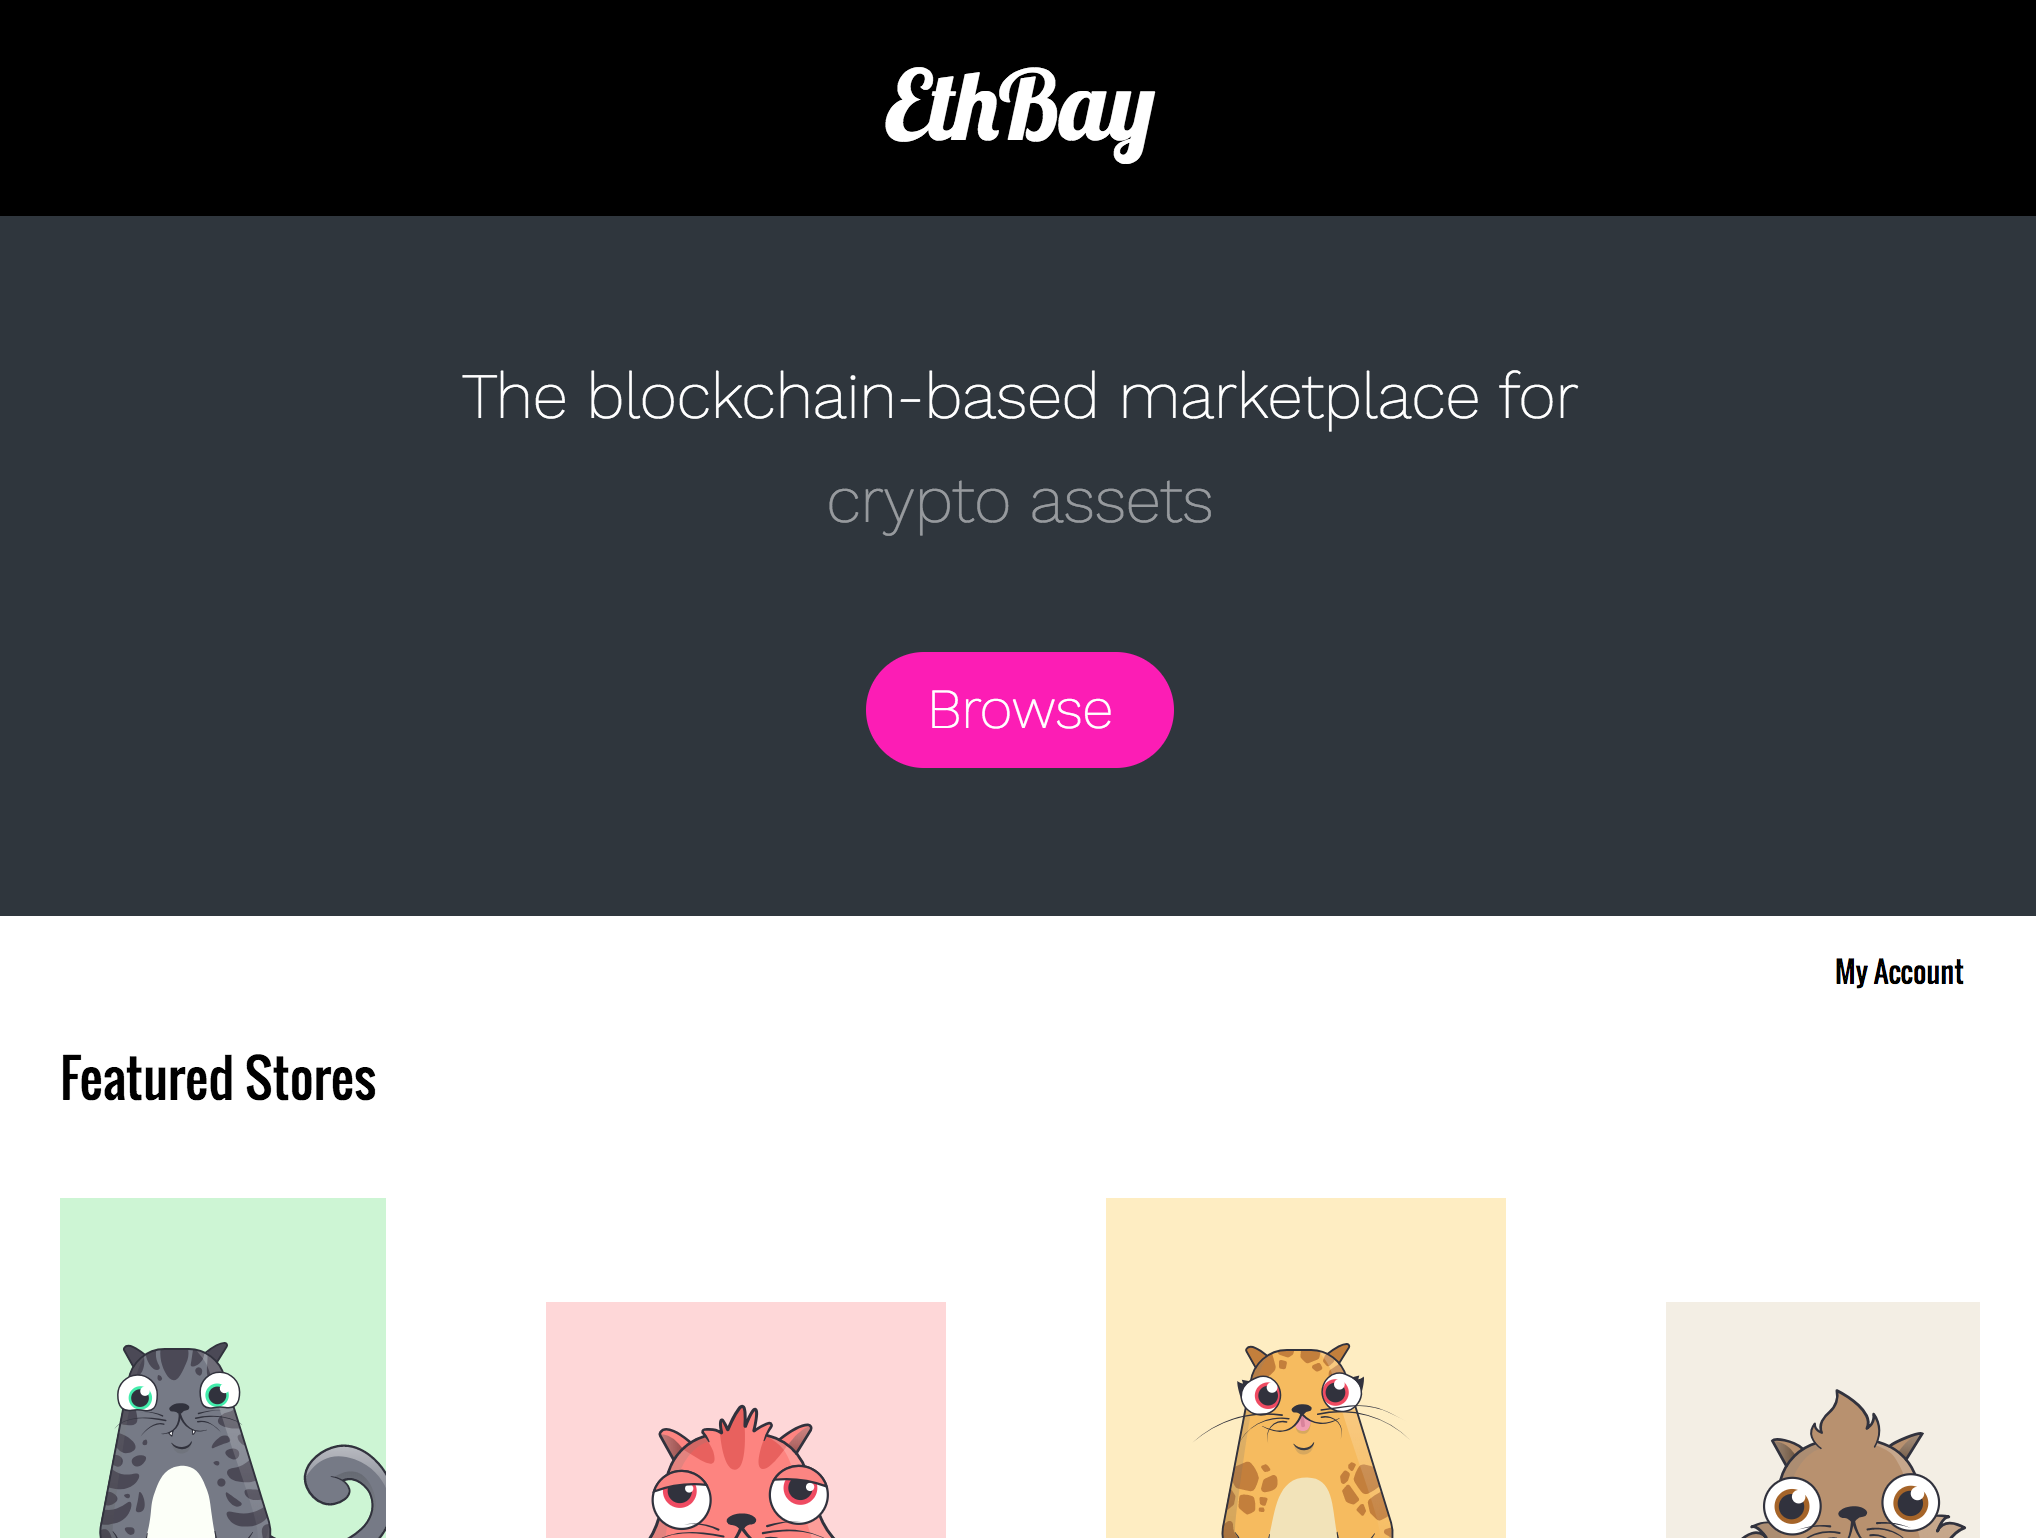
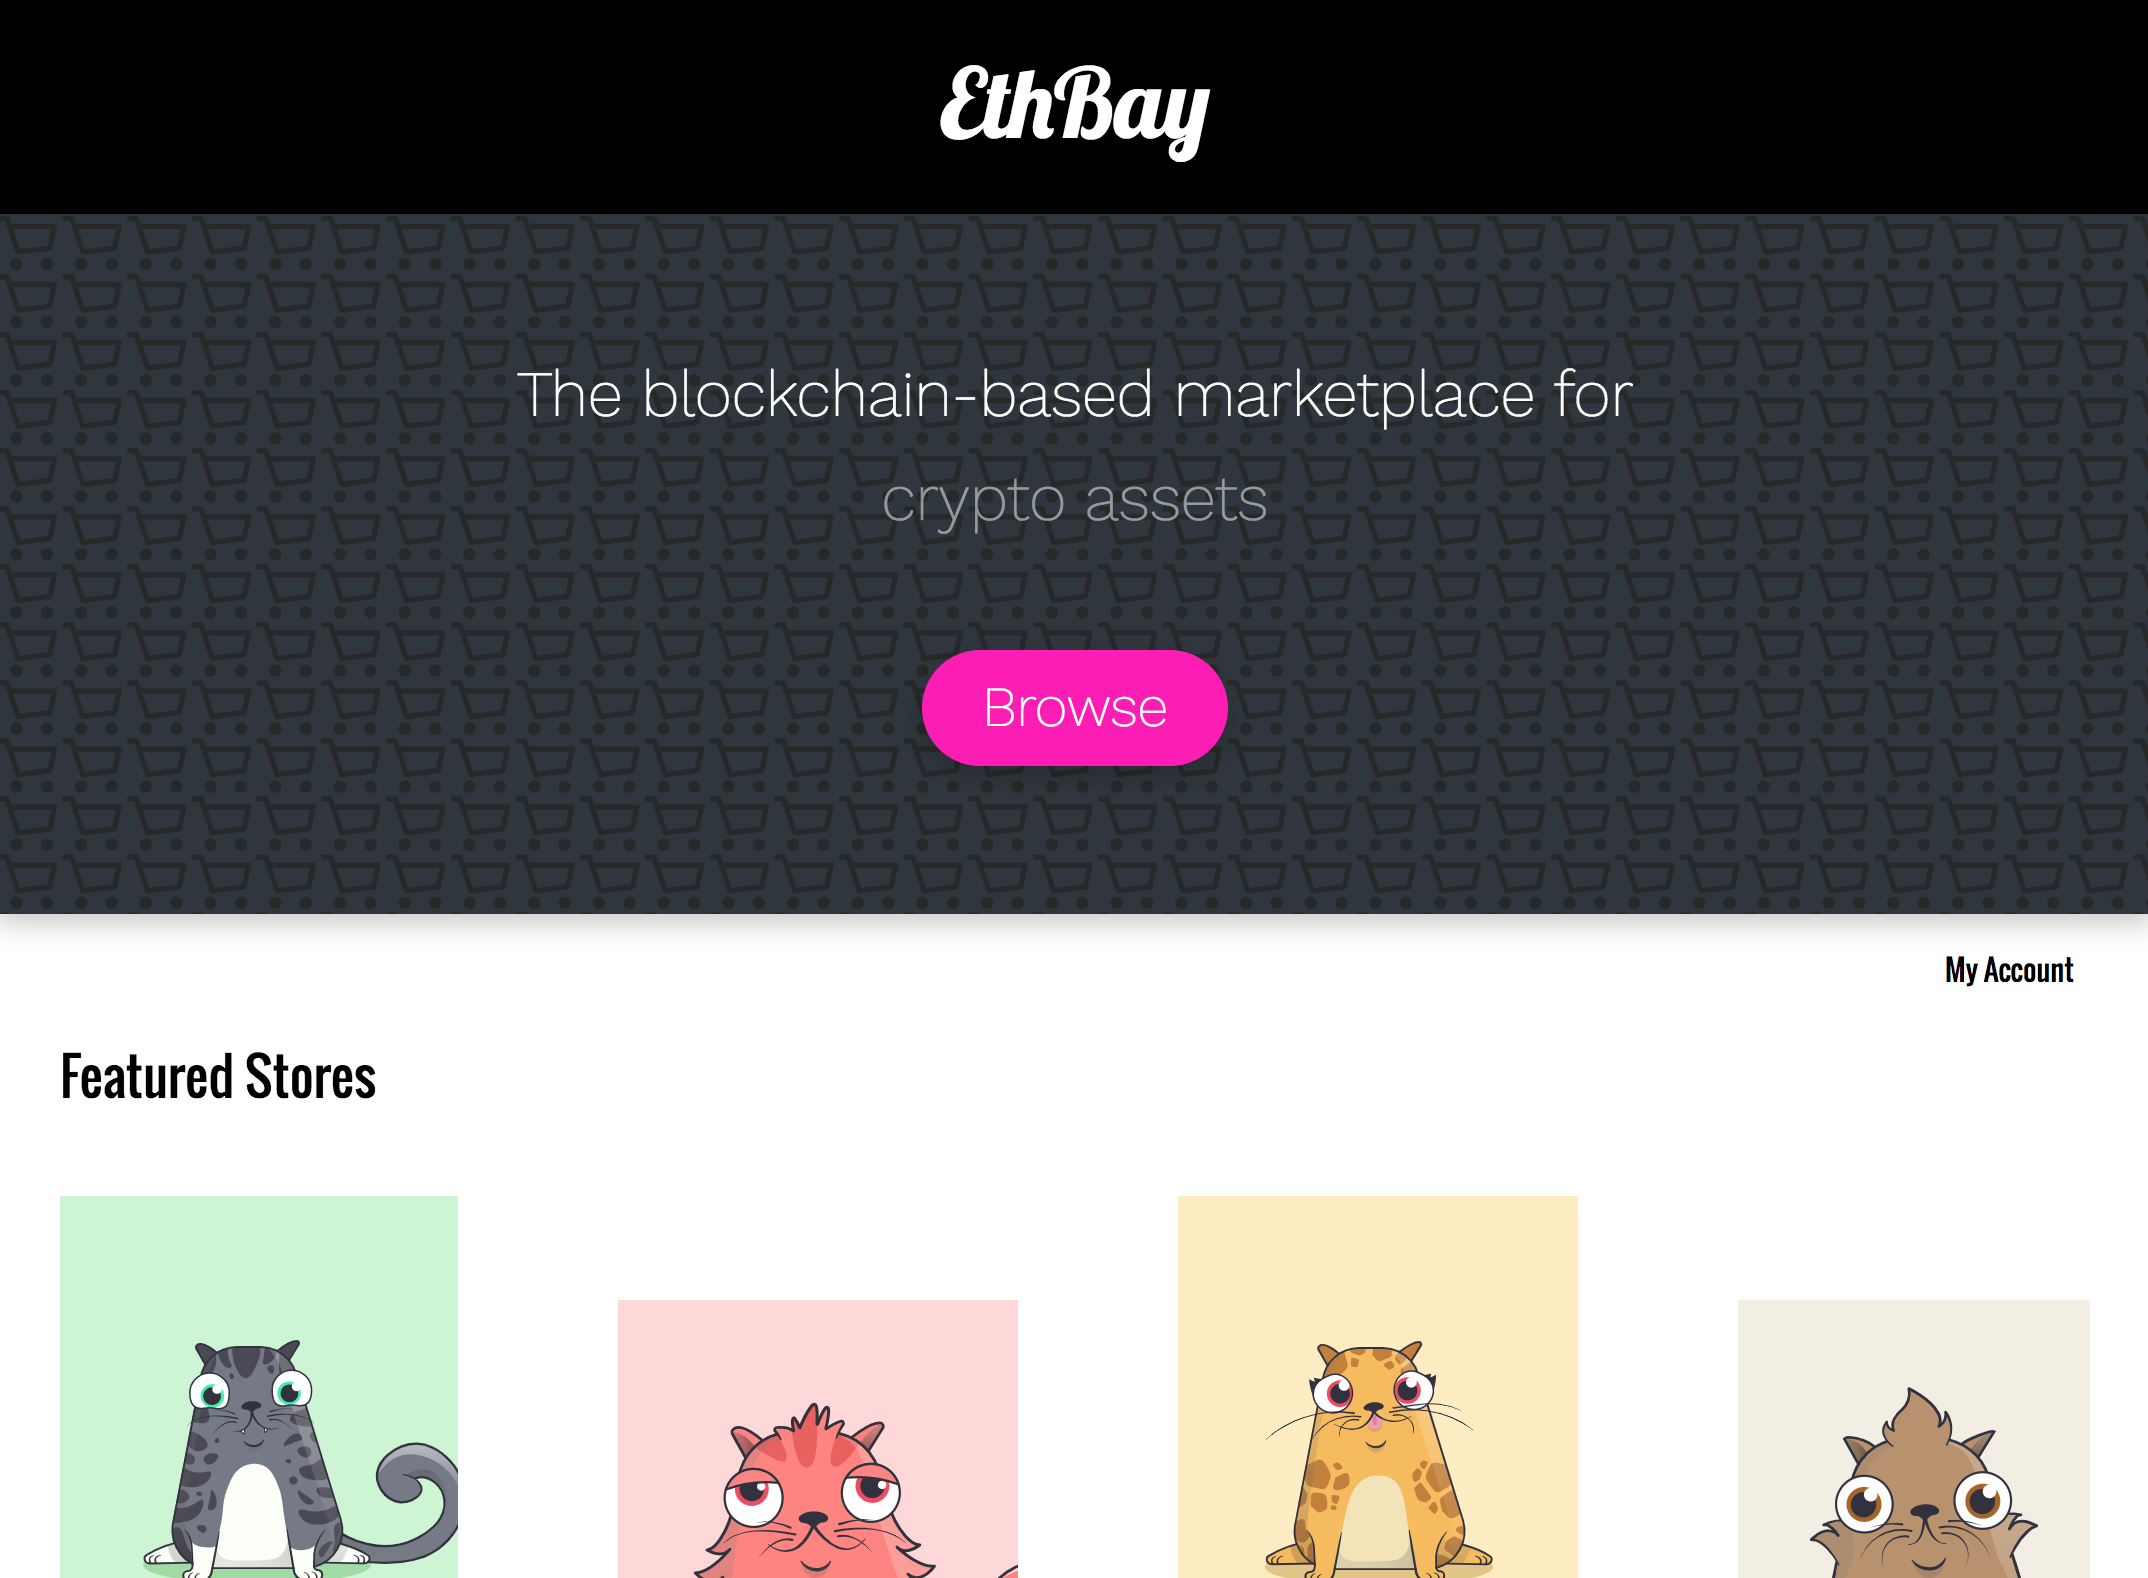
Updated homepage screenshot and some style tweaks

diff --git a/src/components/common/hero/hero.css b/src/components/common/hero/hero.css
@@ -1,5 +1,7 @@
 .hero {
     background-color: #2f363d;
+    background-image: url(../../../../public/images/cart.png);
+    background-size: 3%;
     color: #ffffff;
     text-align: center;
     font-family: 'Work Sans Extra Light' !important;

diff --git a/src/components/marketplace/asset-details/asset-details.css b/src/components/marketplace/asset-details/asset-details.css
@@ -42,7 +42,7 @@
 }
 .buy-now-container {
     border: 1px solid #e2e2e2;
-    border-radius: 10px;
+    border-radius: 5px;
     padding: 40px;
 }
 .buy-now-container > div {

diff --git a/src/App.css b/src/App.css
@@ -207,7 +207,6 @@ ul li:not(:last-child) {
 }
 .tab-list li {
   display: inline-block;
-  float: left;
   margin-right: 40px;
   padding-bottom: 20px;
 }
